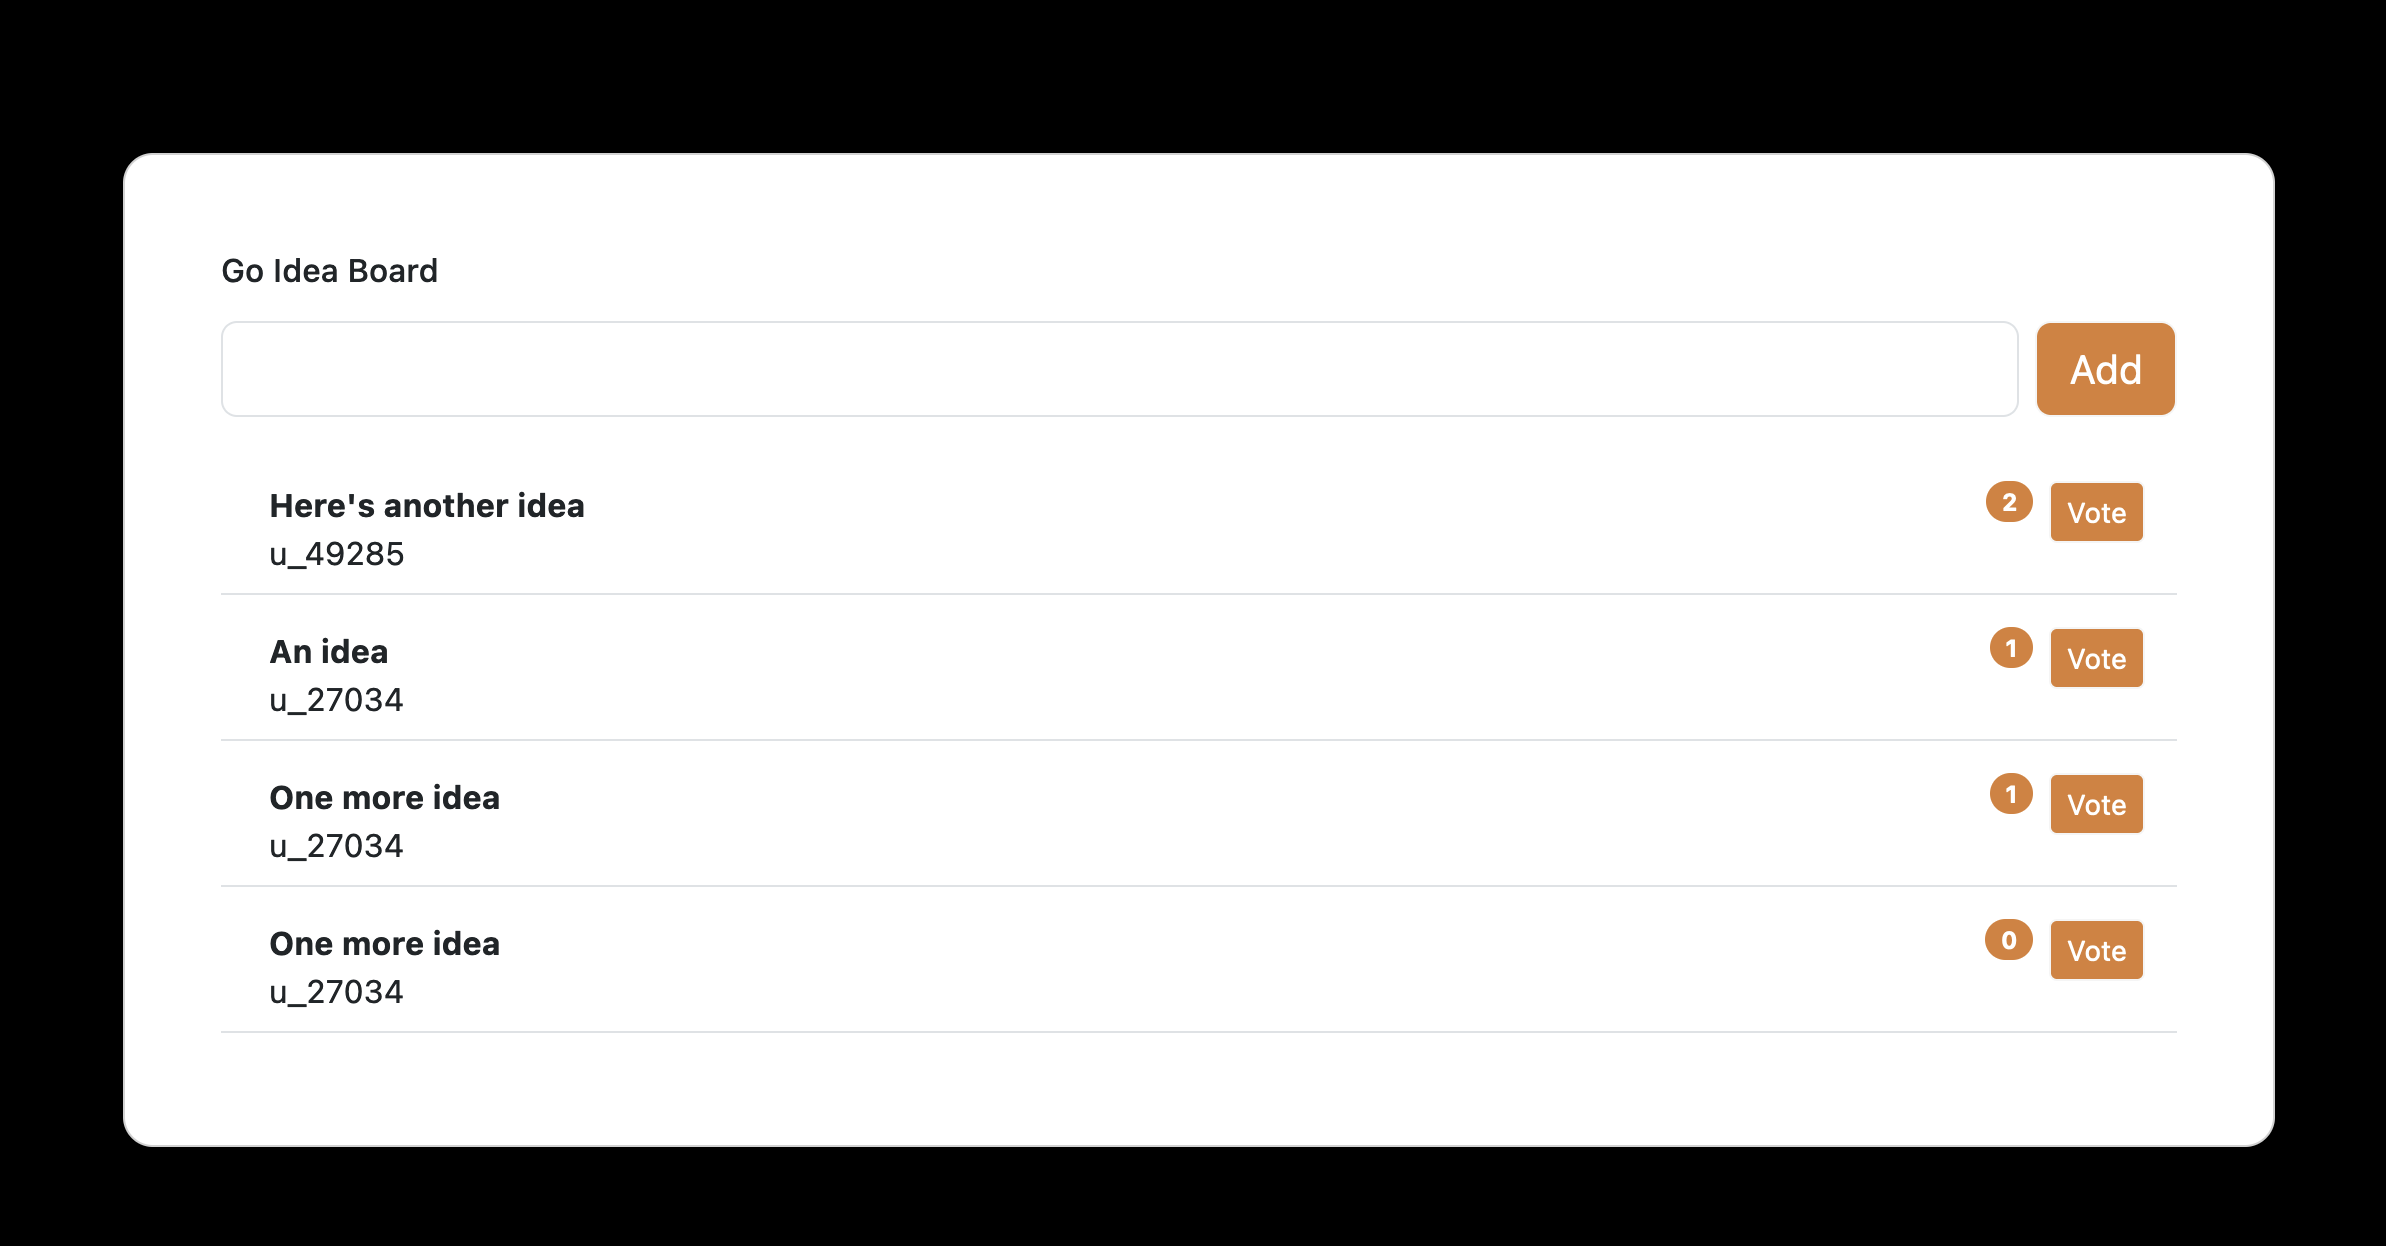
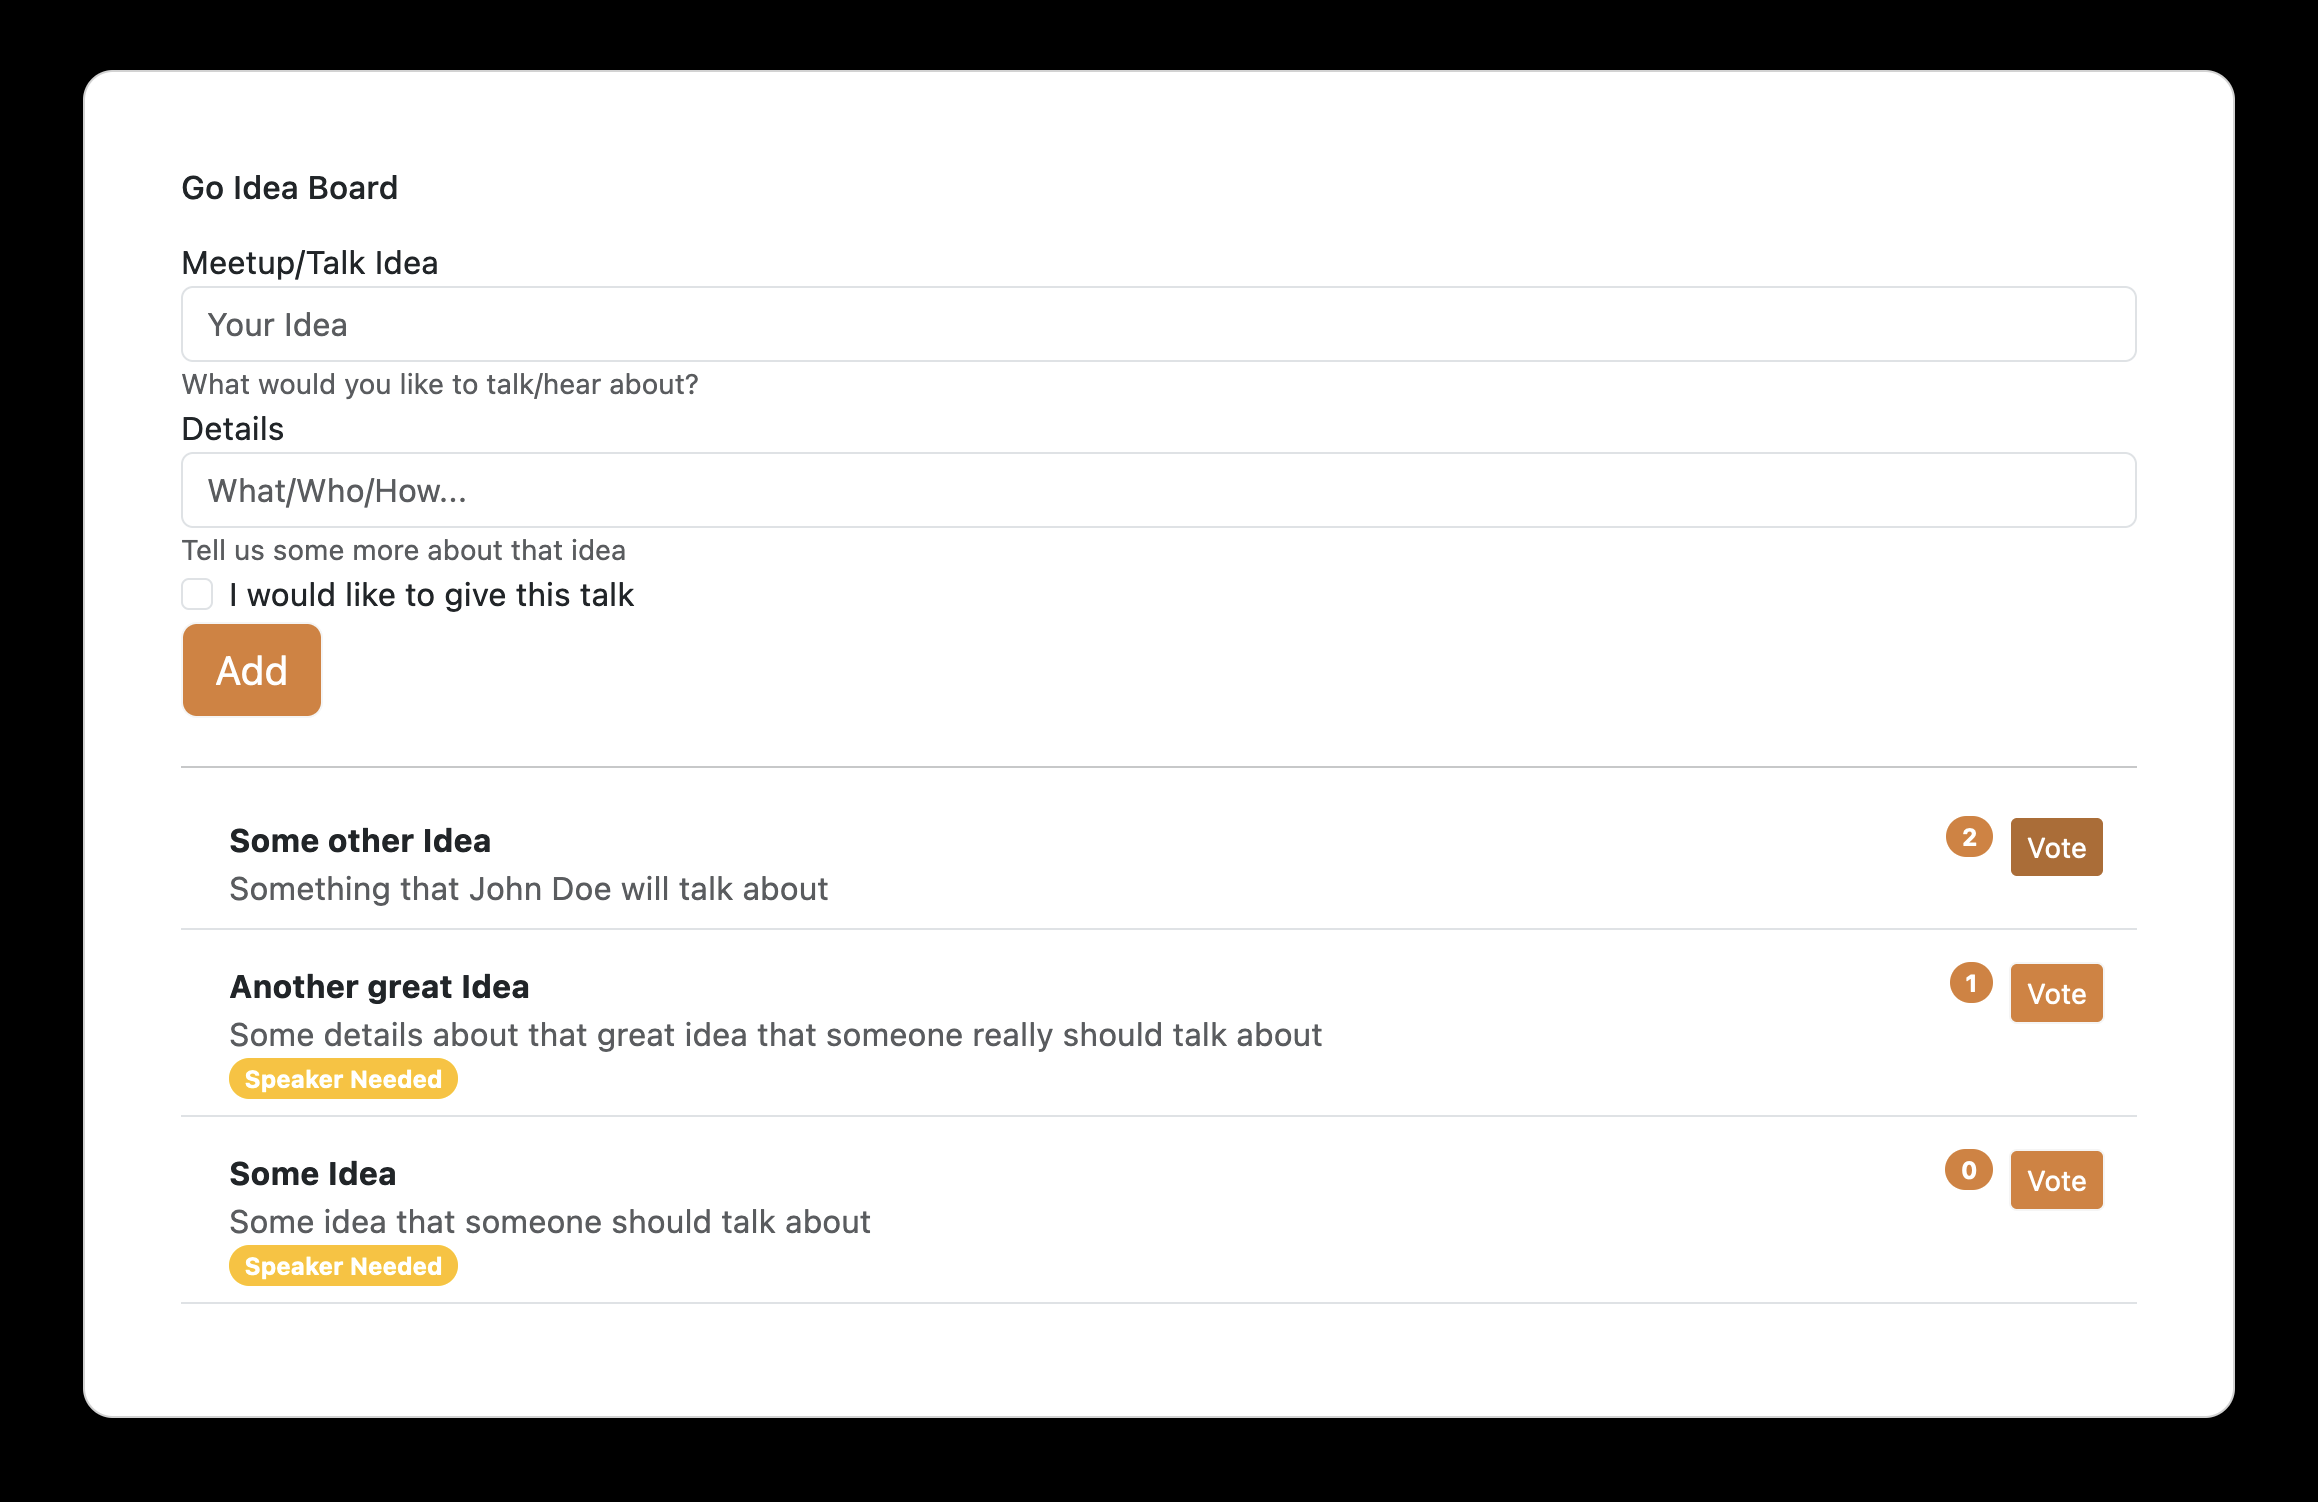
feat: Allow to input and display description and whether there's a speaker for an idea

Changed region(s): [[0.0311, 0.0305, 0.9629, 0.9454], [0.0932, 0.5185, 0.5591, 0.8844], [0.8076, 0.366, 0.9008, 0.4575]]

diff --git a/web/index.html b/web/index.html
@@ -14,14 +14,26 @@
 
             <h6 class="mb-3">Go Idea Board</h6>
 
-            <!-- TODO: do nicer form input with place for text https://getbootstrap.com/docs/5.3/forms/form-control/ -->
-            <form action="/" method="POST" class="d-flex justify-content-center align-items-center mb-4">
-              <div class="form-outline flex-fill">
-                <input type="text" id="idea" name="idea" value="" title="Idea to add" class="form-control form-control-lg" />
+            <form action="/" method="POST" class="form-row justify-content-center align-items-center mb-4">
+              <div class="form-group">
+                <label for="ideaInput">Meetup/Talk Idea</label>
+                <input type="text" class="form-control" id="ideaInput" name="idea" aria-describedby="ideaHelp" placeholder="Your Idea">
+                <small id="ideaHelp" class="form-text text-muted">What would you like to talk/hear about?</small>
               </div>
-			  <input type="hidden" name="type" value="input" />
-              <button type="submit" class="btn btn-primary btn-lg ms-2">Add</button>
+              <div class="form-group">
+                <label for="detailsInput">Details</label>
+                <input type="textarea" class="form-control" id="detailsInput" name="details" aria-describedby="detailsHelp" placeholder="What/Who/How...">
+                <small id="detailsHelp" class="form-text text-muted">Tell us some more about that idea</small>
+              </div>
+              <div class="form-check">
+                <input type="checkbox" class="form-check-input" id="hasSpeaker" name="hasSpeaker">
+                <label class="form-check-label" for="hasSpeaker">I would like to give this talk</label>
+              </div>
+			        <input type="hidden" name="type" value="input" />
+              <button type="submit" class="btn btn-primary btn-lg ms-10">Add</button>
             </form>
+
+            <hr />
 
             <ul class="list-group mb-0">
 			{{ range . }}
@@ -29,7 +41,10 @@
                 class="list-group-item d-flex justify-content-between align-items-start border-start-0 border-top-0 border-end-0 border-bottom rounded-0 mb-2">
 				<div class="ms-2 me-auto">
 					<div class="fw-bold">{{.Text}}</div>
-					 {{.Creator}} 
+          <div class="text-muted">{{.Description}}</div>
+          {{ if not .HasSpeaker }} 
+          <span class="badge bg-warning rounded-pill">Speaker Needed</span>
+          {{ end }}
 			  	</div>
 			  	<span class="badge bg-primary rounded-pill">{{.Votes}}</span>
 				<form action="/" method="POST">

diff --git a/cmd/go-ideaboard/main.go b/cmd/go-ideaboard/main.go
@@ -73,12 +73,19 @@ func display(w http.ResponseWriter, req *http.Request) {
 }
 
 func addIdea(req *http.Request, uid string) {
-	// TODO: allow more user input (description, present/idea, who) - in struct and html template
 	id := randGen.Intn(2560)
+
+	hasSpeaker := false
+	if req.FormValue("hasSpeaker") == "on" {
+		hasSpeaker = true
+	}
+
 	i := ideas.Idea{
-		Id:      id,
-		Text:    req.FormValue("idea"),
-		Creator: uid,
+		Id:          id,
+		Text:        req.FormValue("idea"),
+		Description: req.FormValue("details"),
+		HasSpeaker:  hasSpeaker,
+		Creator:     uid,
 	}
 	err := idealist.StoreIdea(i)
 	if err != nil {

diff --git a/internal/ideas/idea.go b/internal/ideas/idea.go
@@ -1,8 +1,10 @@
 package ideas
 
 type Idea struct {
-	Id      int
-	Text    string
-	Creator string
-	Votes   int
+	Id          int
+	Text        string
+	Description string
+	HasSpeaker  bool
+	Creator     string
+	Votes       int
 }
